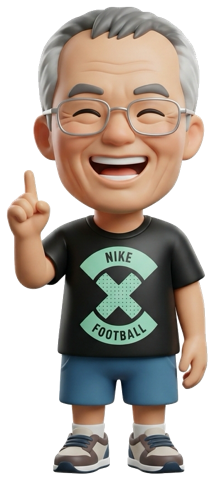
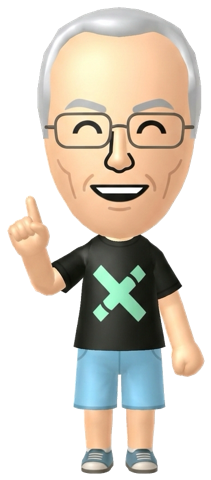
feat(pet): update to Nintendo Wii Mii 3D characters and respectful parent interactions

diff --git a/brain-game/pet.js b/brain-game/pet.js
@@ -1,16 +1,15 @@
 // ==========================================================
-// 날씨 아래 3D 다마고치 영역 (window.PET)
-// - 왼쪽: 610708 3D 캐릭터 (assets/pet/char_610708.png)
-// - 오른쪽: 691105 3D 캐릭터 (assets/pet/char_691105.png)
-// - 두 분의 3D 캐릭터가 항상 나란히 함께 서서 반겨주는 다마고치 스테이지
-// 1) 실시간 오늘 날씨(맑음·비·눈·추위·더위·밤)에 맞춰 배경·우산·대사 자동 변화
-// 2) 캐릭터 터치 시 3D 입체 기울기·점프·하트 파티클·쓰다듬기 반응과 다정한 말풍선 대사
-// 3) 오늘의 두뇌운동 완료 시 '특식 밥 주기' & '간식 주기'로 친밀도 게이지 상승 및 레벨업
+// 날씨 아래 3D 캐릭터 라운지 영역 (window.PET)
+// - 왼쪽: 610708 닌텐도 Wii(Mii) 스타일 3D 캐릭터 (assets/pet/char_610708.png)
+// - 오른쪽: 691105 닌텐도 Wii(Mii) 스타일 3D 캐릭터 (assets/pet/char_691105.png)
+// 1) 실시간 오늘 날씨(맑음·비·눈·추위·더위·밤)에 맞춰 배경·우산·안부 인사 자동 변화
+// 2) 캐릭터 터치 및 [👋 반갑게 인사] 시 3D 점프·하트 파티클·다정한 덕담 말풍선
+// 3) 오늘의 두뇌운동 완료 시 [💐 축하 꽃다발] 및 [🍵 다과 나누기]로 활력 레벨업
 // ==========================================================
 (function () {
   const CHAR_ASSETS = {
-    '610708': 'assets/pet/char_610708.png',
-    '691105': 'assets/pet/char_691105.png',
+    '610708': 'assets/pet/char_610708.png?v=2',
+    '691105': 'assets/pet/char_691105.png?v=2',
   };
   const loadedChars = {};
 
@@ -99,7 +98,7 @@
 
   let activeMount = null;
 
-  // 날씨 코드/기온에서 다마고치 환경 상태 계산
+  // 날씨 코드/기온에서 배경·소품 상태 계산
   function parseWeatherState(brief) {
     const hour = new Date().getHours();
     const isNight = brief && brief.isDay !== undefined ? !brief.isDay : (hour >= 19 || hour < 6);
@@ -111,8 +110,6 @@
     const isHot = temp >= 28;
     let prop = null;
     if (isRain) prop = 'umbrella';
-    else if (isSnow || isCold) prop = 'scarf';
-    else if (isHot && !isNight) prop = 'sunglasses';
 
     let skyClass = '';
     if (isRain) skyClass = 'wx-rain';
@@ -139,7 +136,7 @@
     const state = getPetState();
     const doneToday = isSessionDoneToday();
     const today = todayKey();
-    const fedToday = state.fedDay === today;
+    const giftedToday = state.fedDay === today;
 
     let savedBrief = null;
     try { savedBrief = JSON.parse(localStorage.getItem('wxBrief') || 'null'); } catch (e) { savedBrief = null; }
@@ -150,17 +147,17 @@
     stageBox.id = 'petStageBox';
 
     const initLine = () => {
-      if (doneToday && !fedToday) return '🎉 오늘 두뇌운동을 끝내셨네요! 아래 [🍖 밥 주기]를 눌러 두 분께 특식을 주세요!';
+      if (doneToday && !giftedToday) return '🎉 오늘 두뇌운동을 멋지게 끝내셨네요! 아래 [💐 축하 꽃다발]을 눌러 보세요!';
       if (wx.isRain) return '☂ 오늘은 비 소식이 있어요! 외출하실 때 우산 꼭 챙기세요 😊';
       if (wx.isCold || wx.isSnow) return '🧣 날씨가 쌀쌀해요! 따뜻하게 입으시고 감기 조심하세요 💕';
-      if (doneToday && fedToday) return '🥰 특식 덕분에 기분 최고예요! 두 분 캐릭터를 톡톡 눌러 쓰다듬어 주세요!';
-      return '💑 두 분의 3D 캐릭터예요! 톡톡 터치해 보시고, 오늘 두뇌운동 끝내면 특식도 주세요!';
+      if (doneToday && giftedToday) return '💐 오늘 두뇌운동 완주 정말 축하드려요! 늘 건강하고 행복한 하루 보내세요!';
+      return '😊 오늘도 반갑습니다! 캐릭터를 톡톡 터치해서 반갑게 인사를 나눠 보세요!';
     };
 
     stageBox.innerHTML = `
       <div class="pet-hud">
         <div class="pet-lv-pill">
-          <span>❤ 친밀도 <b id="petLvTxt">Lv.${state.lv}</b></span>
+          <span>✨ 활력 <b id="petLvTxt">Lv.${state.lv}</b></span>
           <div class="pet-exp-track"><div class="pet-exp-fill" id="petExpFill" style="width:${Math.min(100, state.exp)}%"></div></div>
         </div>
         <div class="pet-wx-pill" id="petWxPill">${wx.badge}</div>
@@ -173,11 +170,11 @@
         <div class="pet-fx-layer" id="petFxLayer"></div>
       </div>
       <div class="pet-actions">
-        <button type="button" class="pet-act-btn" id="petBtnStroke">👋 쓰다듬기</button>
-        <button type="button" class="pet-act-btn ${doneToday && !fedToday ? 'ready-feed' : fedToday ? 'done-feed' : ''}" id="petBtnFeed">
-          🍖 ${fedToday ? '식사 완료' : doneToday ? '특식 밥주기!' : '밥 주기'}
+        <button type="button" class="pet-act-btn" id="petBtnStroke">👋 반갑게 인사</button>
+        <button type="button" class="pet-act-btn ${doneToday && !giftedToday ? 'ready-feed' : giftedToday ? 'done-feed' : ''}" id="petBtnFeed">
+          💐 ${giftedToday ? '축하 완료' : doneToday ? '축하 꽃다발!' : '꽃다발 선물'}
         </button>
-        <button type="button" class="pet-act-btn" id="petBtnSnack">🍓 간식 주기</button>
+        <button type="button" class="pet-act-btn" id="petBtnSnack">🍵 다과 나누기</button>
       </div>
     `;
 
@@ -230,14 +227,14 @@
       }
     }
 
-    // 3D 캐릭터 물리 상태 (점프, 기울기, 찌부/늘어남, 표정)
+    // 3D 캐릭터 물리 상태 (점프, 기울기, 표정)
     const anim = {
       vy: 0,
       y: 0,
       scaleX: 1,
       scaleY: 1,
       tiltX: 0,
-      mood: 'idle', // 'idle' | 'happy' | 'eat' | 'love'
+      mood: 'idle',
       moodUntil: 0,
       foodEmoji: null,
       foodProg: 0,
@@ -251,15 +248,15 @@
       anim.moodUntil = performance.now() + durMs;
     }
 
-    const COUPLE_LINES = [
-      '💑 두 분이 함께 활짝 웃으시니 복이 가득 들어와요!',
-      '☝ 하하하! 오늘도 두 분 나란히 두뇌운동 화이팅입니다!',
-      '🌸 호호호~ 다정하게 터치해 주셔서 기분이 최고예요 🥰',
+    const GREET_LINES = [
+      '💑 두 분이 함께 활짝 웃으시니 보기만 해도 기분이 좋아져요!',
+      '☝ 하하하! 오늘도 활기차게 두뇌운동 화이팅입니다!',
+      '🌸 호호호~ 반갑게 인사 나누니 마음이 참 따뜻하네요 🥰',
       '✨ 언제 봐도 참 다정하고 멋지신 두 분이에요 💕',
       '💪 오늘도 건강하고 웃음 가득한 하루 보내세요!',
     ];
 
-    function onStroke(clientX) {
+    function onGreet(clientX) {
       if (typeof beep === 'function') beep(660, 0.08);
       if (clientX && cv) {
         const rect = cv.getBoundingClientRect();
@@ -267,18 +264,18 @@
         anim.tiltX = Math.max(-1, Math.min(1, relX)) * 14;
       }
       triggerJump('love', 1800);
-      spawnParticles(['❤', '💕', '✨']);
+      spawnParticles(['❤', '👏', '✨']);
       state.petCount = (state.petCount || 0) + 1;
       const up = addExp(5);
-      if (up) say(`🎊 우와! 친밀도가 Lv.${state.lv}로 올랐어요! 늘 아껴 주셔서 감사해요!`);
-      else say(COUPLE_LINES[state.petCount % COUPLE_LINES.length]);
+      if (up) say(`🎊 우와! 오늘의 활력 지수가 Lv.${state.lv}로 올랐어요! 늘 건강하세요!`);
+      else say(GREET_LINES[state.petCount % GREET_LINES.length]);
     }
 
     stageBox.querySelector('#petCanvasWrap').addEventListener('click', (e) => {
-      onStroke(e.clientX);
+      onGreet(e.clientX);
     });
     stageBox.querySelector('#petBtnStroke').addEventListener('click', () => {
-      onStroke();
+      onGreet();
     });
 
     stageBox.querySelector('#petBtnFeed').addEventListener('click', () => {
@@ -287,51 +284,51 @@
       if (state.fedDay === t) {
         if (typeof beep === 'function') beep(587, 0.08);
         triggerJump('happy', 1600);
-        spawnParticles(['🍖', '😋', '✨']);
-        say('😋 오늘 주신 특식 덕분에 두 분 다 배가 든든해요! 내일 두뇌운동 끝나고 또 주세요!');
+        spawnParticles(['💐', '🌺', '✨']);
+        say('💐 향기로운 축하 꽃다발 덕분에 오늘 하루가 더욱 특별해요!');
         return;
       }
       if (!done) {
         if (typeof beep === 'function') beep(440, 0.1);
-        anim.foodEmoji = '🍙';
+        anim.foodEmoji = '🌷';
         anim.foodProg = 1;
-        triggerJump('eat', 1800);
-        spawnParticles(['🍙', '💪']);
+        triggerJump('happy', 1800);
+        spawnParticles(['🌷', '💪']);
         addExp(4);
-        say('🍙 맛보기 주먹밥 냠냠! 아래 [시작하기]로 오늘 두뇌운동을 끝내시면 황금 특식을 드실 수 있어요!');
+        say('🌷 응원의 꽃 한 송이! 아래 [시작하기]로 오늘 두뇌운동을 마치면 풍성한 축하 꽃다발을 드릴 수 있어요!');
         return;
       }
-      // 오늘 두뇌운동 완료 상태 -> 황금 특식 급여!
+      // 오늘 두뇌운동 완료 상태 -> 축하 꽃다발 전달!
       state.fedDay = t;
       feedBtn.classList.remove('ready-feed');
       feedBtn.classList.add('done-feed');
-      feedBtn.innerHTML = '🍖 식사 완료';
-      anim.foodEmoji = '🍖';
+      feedBtn.innerHTML = '💐 축하 완료';
+      anim.foodEmoji = '💐';
       anim.foodProg = 1;
-      triggerJump('eat', 2400);
-      spawnParticles(['🍖', '🎉', '❤', '🌟']);
+      triggerJump('happy', 2400);
+      spawnParticles(['💐', '🎉', '❤', '🌟']);
       const up = addExp(45);
-      if (up) say(`🎉 황금 특식 냠냠! 친밀도가 Lv.${state.lv}로 레벨업했어요! 최고예요!`);
-      else say('😋 우와! 오늘 두뇌운동 완주 보상으로 주신 황금 특식, 정말 꿀맛이에요!');
+      if (up) say(`🎉 오늘의 두뇌운동 완주 축하 꽃다발! 활력 지수가 Lv.${state.lv}로 올라갔어요!`);
+      else say('💐 오늘 두뇌운동 완주를 진심으로 축하드려요! 정말 멋지십니다!');
     });
 
     stageBox.querySelector('#petBtnSnack').addEventListener('click', () => {
       const t = todayKey();
-      const snacks = ['🎂', '🍓', '🍰', '🍡', '🍊'];
-      const pickSnack = snacks[Math.floor(Math.random() * snacks.length)];
+      const treats = ['🍵', '☕', '🍊', '🍎', '🍰'];
+      const pickTreat = treats[Math.floor(Math.random() * treats.length)];
       if (typeof beep === 'function') beep(740, 0.08);
-      anim.foodEmoji = pickSnack;
+      anim.foodEmoji = pickTreat;
       anim.foodProg = 1;
-      triggerJump('eat', 1900);
-      spawnParticles([pickSnack, '😋', '💕']);
+      triggerJump('happy', 1900);
+      spawnParticles([pickTreat, '😊', '💕']);
       if (state.snackDay !== t) {
         state.snackDay = t;
         const up = addExp(18);
-        if (up) say(`🎊 달콤한 간식 먹고 친밀도가 Lv.${state.lv}로 올랐어요!`);
-        else say(`${pickSnack} 달콤한 간식 냠냠! 두 분 함께 드시니 더 맛있어요 🥰`);
+        if (up) say(`🎊 따뜻한 다과 시간과 함께 활력 지수가 Lv.${state.lv}로 올랐어요!`);
+        else say(`${pickTreat} 향긋한 차와 다과를 함께 나누니 기분이 참 좋네요 🥰`);
       } else {
         addExp(3);
-        say(`${pickSnack} 오물오물~ 간식은 언제 먹어도 정말 맛있어요! 😊`);
+        say(`${pickTreat} 여유롭게 차 한잔 나누며 오늘도 편안한 시간 보내세요 😊`);
       }
     });
 
@@ -447,10 +444,10 @@
 
       // 왼쪽: 610708 3D 캐릭터, 오른쪽: 691105 3D 캐릭터 항상 나란히 표시
       if (loadedChars['610708']) {
-        draw3DSprite(loadedChars['610708'], cx - 92, baseFootY, 348, t, anim.mood);
+        draw3DSprite(loadedChars['610708'], cx - 95, baseFootY, 350, t, anim.mood);
       }
       if (loadedChars['691105']) {
-        draw3DSprite(loadedChars['691105'], cx + 92, baseFootY, 340, t + 0.8, anim.mood);
+        draw3DSprite(loadedChars['691105'], cx + 95, baseFootY, 340, t + 0.8, anim.mood);
       }
 
       // 두 분 사이 하트 둥실둥실
@@ -468,7 +465,7 @@
         ctx.restore();
       }
 
-      // 밥/간식 먹기 애니메이션
+      // 꽃다발/다과 전달 애니메이션
       if (anim.foodProg > 0 && anim.foodEmoji) {
         ctx.save();
         const fx = cx + 88 * anim.foodProg;

diff --git a/brain-game/index.html b/brain-game/index.html
@@ -4877,7 +4877,7 @@ function clearBackground() {
 <script src="radio.js?v=3"></script>
 <script src="glass.js?v=6"></script>
 <script src="weather.js?v=3"></script>
-<script src="pet.js?v=3"></script>
+<script src="pet.js?v=4"></script>
 <script src="video.js?v=2"></script>
 <script src="clean.js?v=6"></script>
 <script src="why.js?v=10"></script>
